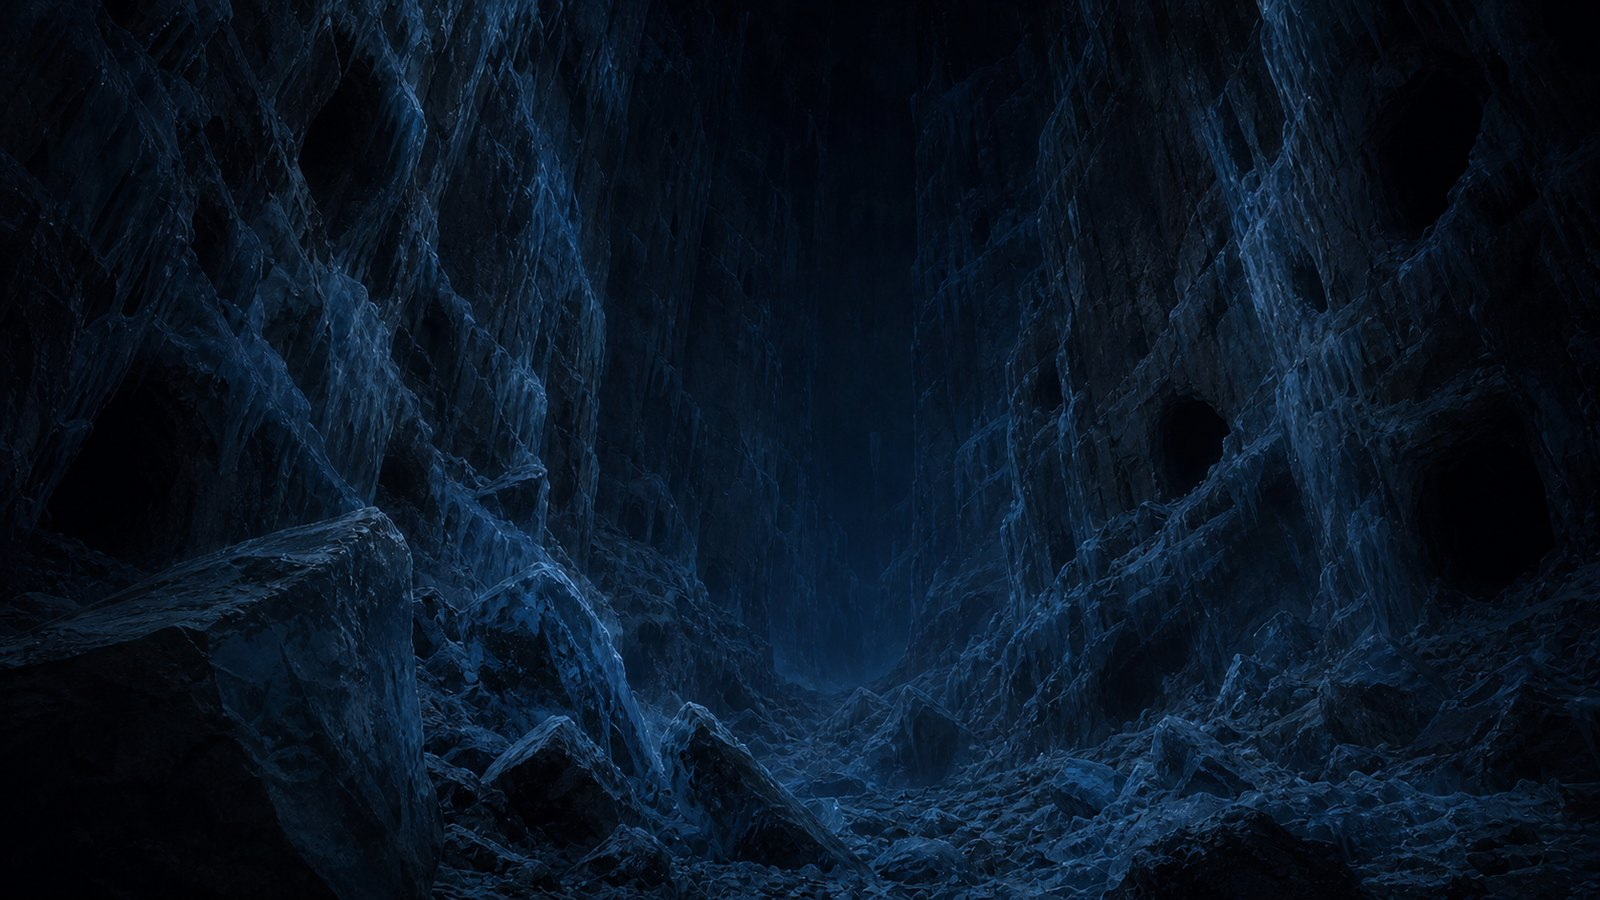
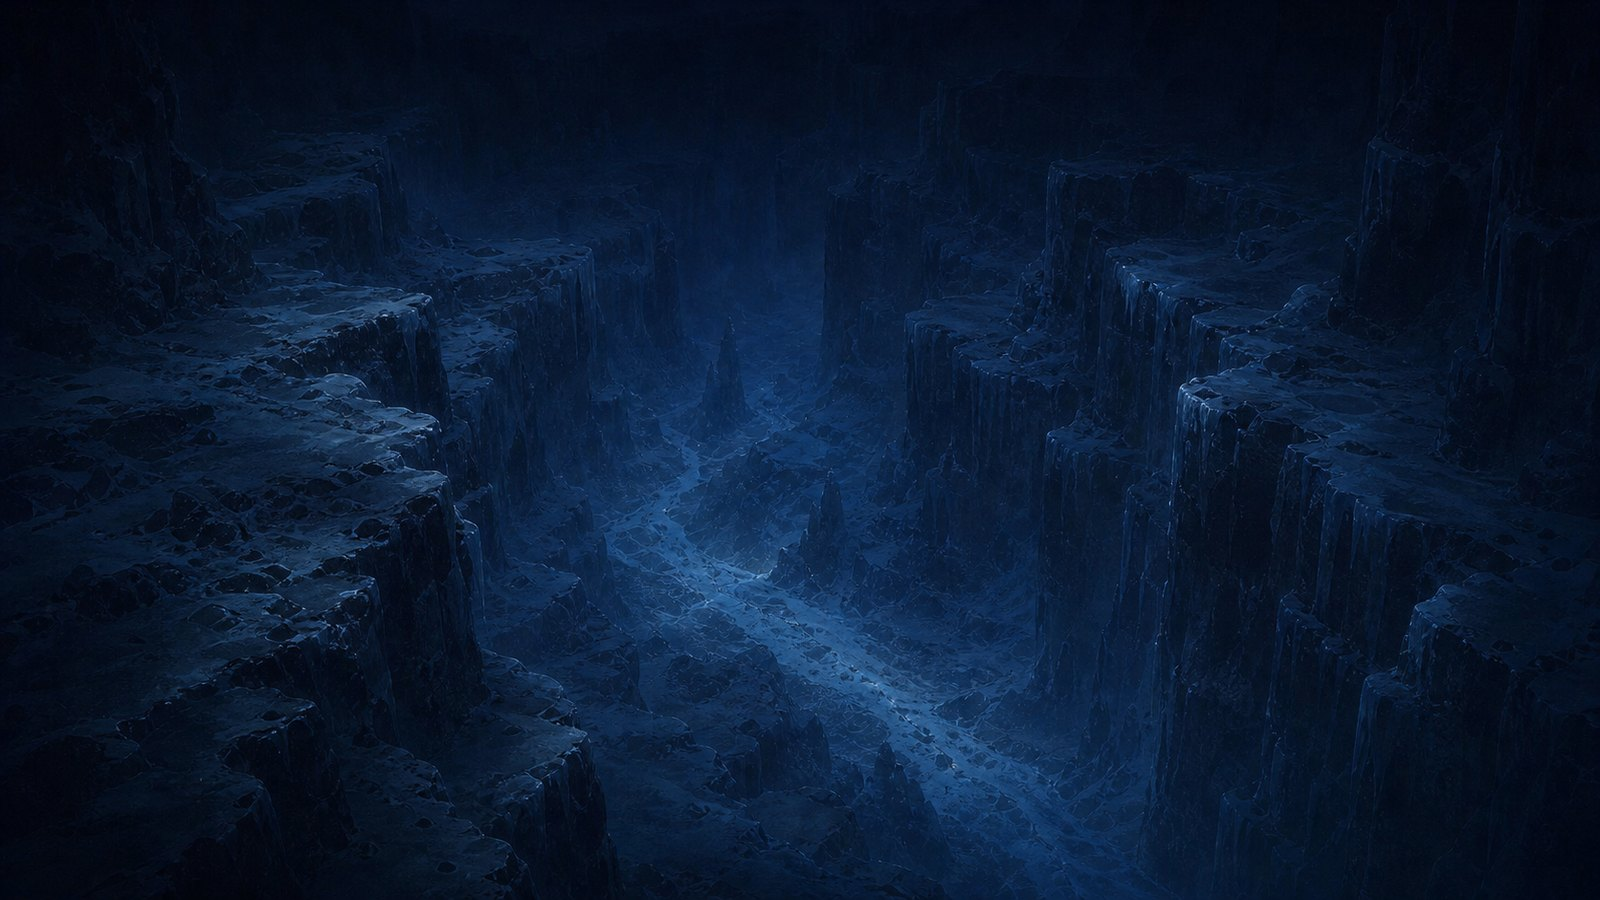
原生生物節の締めを全面改稿（後輩くん執筆＝3段落：灯りは最初の防壁/拠点ごとの対応策/開拓団とラーフが確かめてきたものにすぎない）＋大峡谷を後輩くん採用のA案（反対側の縁からの俯瞰・無人）へ差し替え

diff --git a/index.html b/index.html
@@ -850,13 +850,9 @@ footer p { font-size:11.5px; color:var(--dim); max-width:640px; margin:0 auto; l
 成体の眼は退化して閉じているため、灯りには反応しない。匂いと体温を頼りに獲物を追う。狩りに際しては、獲物に浴びせた油に火花を散らす事で燃焼させる姿がよく目撃されている。討伐隊の報告によれば、グリンデイルが追い詰められると全身を炎で包み、手当たりしだいに暴れ回るともいう。フロストゲートには専任のグリンデイルの迎撃部隊が置かれているが、確認された個体は一頭ではない。大峡谷の未踏部に、繁殖地があるとみられている。"><b>グリンデイル</b><span class="t-km">回廊の頂点</span></button><div class="cs-v">回廊の陸上生態系の頂点に立つ大型魔獣。乳白色の巨体は厚い脂肪に覆われ、体表には可燃性の油脂が絶えず分泌されている。鱗も甲殻も持たないが、その皮膚は自身の炎に耐えるほど熱に強い。凍気の中でも身体から湯気を立てており、周囲の冷え込みが不意に緩むことが、接近を知るほぼ唯一の兆しとなる。<br><br>成体の眼は退化して閉じているため、灯りには反応しない。匂いと体温を頼りに獲物を追う。狩りに際しては、獲物に浴びせた油に火花を散らす事で燃焼させる姿がよく目撃されている。討伐隊の報告によれば、グリンデイルが追い詰められると全身を炎で包み、手当たりしだいに暴れ回るともいう。フロストゲートには専任のグリンデイルの迎撃部隊が置かれているが、確認された個体は一頭ではない。大峡谷の未踏部に、繁殖地があるとみられている。</div></div><div class="cs-row t-img" style="background-image:url(assets/cr_squid.jpg)"><i class="tlight" style="background-image:url(assets/cr_squid.jpg)"></i><button class="cs-k t-open" data-src="assets/cr_squid.jpg" data-cap="ジャイアントスクイード" data-km="地底湖の底" data-desc="凍った地底湖の底に潜む巨大な軟体生物。骨格を持たない身体を細く変形させ、わずかな割れ目からでも太い腕を差し込んで、氷上の獲物を絡め取る。失った腕は時間をかけて再生する。
 
 地底湖では、氷を踏む振動が水中の遠くまで伝わる。渡る者がその存在に気づかれずに済むことは、ほとんどない。ただし、気づいた獲物を必ず襲うわけでもない。開拓団は最も厚く安定した氷を選んで道を定め、立ち止まらずに渡ることを鉄則としている。討伐記録は少なく、残るのは襲撃から逃げ切った記録ばかりだ。"><b>ジャイアントスクイード</b><span class="t-km">地底湖の底</span></button><div class="cs-v">凍った地底湖の底に潜む巨大な軟体生物。骨格を持たない身体を細く変形させ、わずかな割れ目からでも太い腕を差し込んで、氷上の獲物を絡め取る。失った腕は時間をかけて再生する。<br><br>地底湖では、氷を踏む振動が水中の遠くまで伝わる。渡る者がその存在に気づかれずに済むことは、ほとんどない。ただし、気づいた獲物を必ず襲うわけでもない。開拓団は最も厚く安定した氷を選んで道を定め、立ち止まらずに渡ることを鉄則としている。討伐記録は少なく、残るのは襲撃から逃げ切った記録ばかりだ。</div></div><div class="cs-row t-img" style="background-image:url(assets/cr_frostwolf.jpg)"><i class="tlight" style="background-image:url(assets/cr_frostwolf.jpg)"></i><button class="cs-k t-open" data-src="assets/cr_frostwolf.jpg" data-cap="ノースウルフ" data-km="灯りの輪の外" data-desc="暗闇に棲む狼。コナカタ山脈の地表部にも近縁種が多く生息している。彼らは群れで旅人を追い、隊列から離れた者や、灯りを失った者に一斉に襲いかかる。グリンデイルと生息域を共にしている故か、回廊内のノースウルフはとくに灯りを恐れる。「灯りから離れるな」という開拓団の掟は、この獣による犠牲から生まれた。"><b>ノースウルフ</b><span class="t-km">灯りの輪の外</span></button><div class="cs-v">暗闇に棲む狼。コナカタ山脈の地表部にも近縁種が多く生息している。彼らは群れで旅人を追い、隊列から離れた者や、灯りを失った者に一斉に襲いかかる。グリンデイルと生息域を共にしている故か、回廊内のノースウルフはとくに灯りを恐れる。「灯りから離れるな」という開拓団の掟は、この獣による犠牲から生まれた。</div></div><div class="cs-row t-img" style="background-image:url(assets/cr_frostspider.jpg)"><i class="tlight" style="background-image:url(assets/cr_frostspider.jpg)"></i><button class="cs-k t-open" data-src="assets/cr_frostspider.jpg" data-cap="フロストスパイダー" data-km="天井の待ち伏せ" data-desc="天井や氷壁に張りつき、獲物が真下を通るのを待つ大型の蜘蛛。半透明の脚と白い胴は氷に紛れ、正面からの灯りでは見つけにくい。旅人の灯りが前方と足元に集中することを利用し、頭上から音もなく落下する。フロストスパイダーの生息域では、隊列のうち一人が灯りを真上へ向ける。それが開拓団の定めた警戒法である。"><b>フロストスパイダー</b><span class="t-km">天井の待ち伏せ</span></button><div class="cs-v">天井や氷壁に張りつき、獲物が真下を通るのを待つ大型の蜘蛛。半透明の脚と白い胴は氷に紛れ、正面からの灯りでは見つけにくい。旅人の灯りが前方と足元に集中することを利用し、頭上から音もなく落下する。フロストスパイダーの生息域では、隊列のうち一人が灯りを真上へ向ける。それが開拓団の定めた警戒法である。</div></div><div class="cs-row t-img" style="background-image:url(assets/cr_centipede.jpg)"><i class="tlight" style="background-image:url(assets/cr_centipede.jpg)"></i><button class="cs-k t-open" data-src="assets/cr_centipede.jpg" data-cap="エンバーセンティピード" data-km="焼け跡に群がる" data-desc="全長2m程まで育つ大型のムカデ。耐熱性の高い外殻を持ち、天井や氷壁を伝って、焚き火の跡や灯りの熱源へ群がる。死肉性のスカヴェンジャーであり、旅人を狙っているわけではないが、結果として灯りを奪い、噛みつかれれば毒にも侵される。強い毒性を持つ為、頂点捕食者たるグリンデイルはこの虫を捕食しない。故に、グリンデイルの狩りのおこぼれをいつも狙っている。"><b>エンバーセンティピード</b><span class="t-km">焼け跡に群がる</span></button><div class="cs-v">全長2m程まで育つ大型のムカデ。耐熱性の高い外殻を持ち、天井や氷壁を伝って、焚き火の跡や灯りの熱源へ群がる。死肉性のスカヴェンジャーであり、旅人を狙っているわけではないが、結果として灯りを奪い、噛みつかれれば毒にも侵される。強い毒性を持つ為、頂点捕食者たるグリンデイルはこの虫を捕食しない。故に、グリンデイルの狩りのおこぼれをいつも狙っている。</div></div><div class="cs-row t-img" style="background-image:url(assets/cr_frostfly.jpg)"><i class="tlight" style="background-image:url(assets/cr_frostfly.jpg)"></i><button class="cs-k t-open" data-src="assets/cr_frostfly.jpg" data-cap="霜蛍" data-km="灯りを生む虫" data-desc="指先ほどの小さな虫。危機を感じると火のような橙色の光を放つ。だがその光に熱はない。まやかしの火である。回廊の獣の多くは火を恐れる。だから火のふりをして身を守るのだ。この虫を器具にしたものが蛍灯。明るいのに少しも暖かくない灯りである。"><b>霜蛍</b><span class="t-km">灯りを生む虫</span></button><div class="cs-v">指先ほどの小さな虫。危機を感じると火のような橙色の光を放つ。だがその光に熱はない。まやかしの火である。回廊の獣の多くは火を恐れる。だから火のふりをして身を守るのだ。この虫を器具にしたものが蛍灯。明るいのに少しも暖かくない灯りである。</div></div><div class="cs-row t-img" style="background-image:url(assets/cr_frostelk.jpg)"><i class="tlight" style="background-image:url(assets/cr_frostelk.jpg)"></i><button class="cs-k t-open" data-src="assets/cr_frostelk.jpg" data-cap="フロストエルク" data-km="白い群れ" data-desc="白い毛の大鹿。眼は退化して見えない。だが群れは迷わない。氷壁の白い苔を食みながら回廊をゆっくり巡っている。開拓団はこれを狩り肉と皮を得てきた——回廊で人が生きていけるのは半分はこの獣のおかげである。群れが駆け出したときは荷を確かめること。彼らは理由なく走らない。"><b>フロストエルク</b><span class="t-km">白い群れ</span></button><div class="cs-v">白い毛の大鹿。眼は退化して見えない。だが群れは迷わない。氷壁の白い苔を食みながら回廊をゆっくり巡っている。開拓団はこれを狩り肉と皮を得てきた——回廊で人が生きていけるのは半分はこの獣のおかげである。群れが駆け出したときは荷を確かめること。彼らは理由なく走らない。</div></div><div class="cs-row t-img" style="background-image:url(assets/cr_icefish.jpg)"><i class="tlight" style="background-image:url(assets/cr_icefish.jpg)"></i><button class="cs-k t-open" data-src="assets/cr_icefish.jpg" data-cap="アイスフィッシュ" data-km="氷の下の銀" data-desc="地底湖の氷の下を流れる銀色の小魚。氷越しの灯りに集まる習性があり、湖面に銀の帯が透けてゆらめく。街道脇の穴釣りは開拓団のささやかな楽しみだ。——魚群が急に散ったら竿を置いて離れること。下で何かが動いたのである。"><b>アイスフィッシュ</b><span class="t-km">氷の下の銀</span></button><div class="cs-v">地底湖の氷の下を流れる銀色の小魚。氷越しの灯りに集まる習性があり、湖面に銀の帯が透けてゆらめく。街道脇の穴釣りは開拓団のささやかな楽しみだ。——魚群が急に散ったら竿を置いて離れること。下で何かが動いたのである。</div></div><div class="cs-row t-img" style="background-image:url(assets/cr_giantbat.jpg)"><i class="tlight" style="background-image:url(assets/cr_giantbat.jpg)"></i><button class="cs-k t-open" data-src="assets/cr_giantbat.jpg" data-cap="ジャイアントバット" data-km="天井の住人" data-desc="天井の闇に棲む大蝙蝠。眼ではなく声の反響で飛ぶ。だから灯りには寄りも退きもしない。霜蛍や虫を獲って生きている。旅人には害をなさないが頭上すれすれを音もなく過ぎるので初めての者はたいてい肝を冷やす。"><b>ジャイアントバット</b><span class="t-km">天井の住人</span></button><div class="cs-v">天井の闇に棲む大蝙蝠。眼ではなく声の反響で飛ぶ。だから灯りには寄りも退きもしない。霜蛍や虫を獲って生きている。旅人には害をなさないが頭上すれすれを音もなく過ぎるので初めての者はたいてい肝を冷やす。</div></div><div class="cs-row t-img" style="background-image:url(assets/cr_bonemouse.jpg)"><i class="tlight" style="background-image:url(assets/cr_bonemouse.jpg)"></i><button class="cs-k t-open" data-src="assets/cr_bonemouse.jpg" data-cap="ボーンマウス" data-km="骨を磨くもの" data-desc="死の道の巨骨を齧る小さな獣。骨から滋養を得ているらしい。あの骨が磨いたように滑らかなのはこの獣が幾年も齧り続けたからだ。灯りに驚くと骨の中を一斉に走る。——夜の死の道に響く乾いた足音はたいていこれである。"><b>ボーンマウス</b><span class="t-km">骨を磨くもの</span></button><div class="cs-v">死の道の巨骨を齧る小さな獣。骨から滋養を得ているらしい。あの骨が磨いたように滑らかなのはこの獣が幾年も齧り続けたからだ。灯りに驚くと骨の中を一斉に走る。——夜の死の道に響く乾いた足音はたいていこれである。</div></div><div class="cs-row t-img" style="background-image:url(assets/cr_steamsnail.jpg)"><i class="tlight" style="background-image:url(assets/cr_steamsnail.jpg)"></i><button class="cs-k t-open" data-src="assets/cr_steamsnail.jpg" data-cap="スチームスネイル" data-km="吐息の谷の住人" data-desc="吐息の谷の岩壁を舐める大きな貝。地熱と毒気の中でしか生きられない——毒の谷はこの貝にとって天敵の来ない安住の地なのだ。殻は熱に強く坩堝横丁が高値で買い取る。谷の奥へ入る採り手は命がけである。"><b>スチームスネイル</b><span class="t-km">吐息の谷の住人</span></button><div class="cs-v">吐息の谷の岩壁を舐める大きな貝。地熱と毒気の中でしか生きられない——毒の谷はこの貝にとって天敵の来ない安住の地なのだ。殻は熱に強く坩堝横丁が高値で買い取る。谷の奥へ入る採り手は命がけである。</div></div></div>
-    <p class="reveal wl-note">霜蛍（しもぼたる）が危機に瀕して光るのは、光を恐れる獣を遠ざけるためである。蛍灯は、その仕組みを器具にしたものだ。</p>
-    <p class="reveal wl-note">灯りの輪の外を、同じ速度でついてくるものがいる。開拓団はそれらをまとめて「外のもの」と呼ぶ。姿を見て戻った者は多くない。——見た者はたいてい、灯りを失った者だからである。</p>
-    <p class="reveal wl-note">ただし、灯りを恐れなくなった個体が現れはじめている。ランタンを掲げたまま襲われた例が、すでに複数記録されている。獣は学習する。回廊が開かれてからの十数年は、彼らが灯りに慣れるには十分だった。</p>
-    <p class="reveal wl-note">灯りの効かないものへの備えは、拠点ごとに異なる。フロストゲートには討伐にあたる者たちが常駐し、出没の記録が積み重ねられている。坩堝横丁では獣除けの香が調合され、旅人はそれを買っていく。ラーフ大洞窟では炉の熱と煙が、匂いも体温も覆い隠す。ランタン亭が、なぜあれほど静かなのかは——客のあいだで、いろいろに語られている。</p>
-    <p class="reveal wl-note">エンバーセンティピードの死骸には毒があり誰も食べない。それを最後に分解するのは氷壁の白い苔である。すべては苔に還り苔からまた始まる——回廊の生態はひとつの環として閉じている。</p>
-    <p class="reveal wl-note">闇の中に住まう彼らは光にさまざまな反応を示す。寄るものもいる。退くものもいる。意に介さぬものもいる。</p>
-    <p class="reveal wl-caveat">ここに書いたのは、開拓団がこれまでに確かめたことにすぎない。凍結の回路には、まだ誰も見たことのない原生生物が、いくらでも棲んでいる。</p>
+    <p class="reveal wl-note">灯りは旅人にとって最初の防壁だが、万能ではない。光に寄るもの、光から退くもの、そして意に介さないものがいる。近年では、灯りに慣れた個体による襲撃も複数記録されている。回廊が開かれてから十数年。獣たちはすでに、人間と灯りの関係を学び始めている。</p>
+    <p class="reveal wl-note">危険な原生生物への対応策は拠点ごとに異なる。フロストゲートには迎撃部隊が常駐し、特に頂点捕食者たるグリンデイルの出没記録や生態情報が蓄積されている。坩堝横丁では獣除けの香が調合され、ラーフ大洞窟では炉の熱と煙が、人の匂いと体温を覆い隠す。ランタン亭が、なぜあれほど静かで安全なのかについては、客のあいだでさまざまな噂が囁かれている。</p>
+    <p class="reveal wl-caveat">ここに記されたのは、開拓団とラーフ大洞窟がこれまでに確かめてきたものにすぎない。既知の名を持つ生物より、まだ名を持たず、遭遇記録のないもののほうが多いだろう。凍結の回路の闇は、いまも人の知らない生命を抱えている。</p>
     <h3 class="wsec reveal">年表<small>HISTORY</small></h3>
     <p class="tl-intro reveal">エリンディル西方の近代と、氷原開拓団の歩み。</p>
     <div class="tl">
